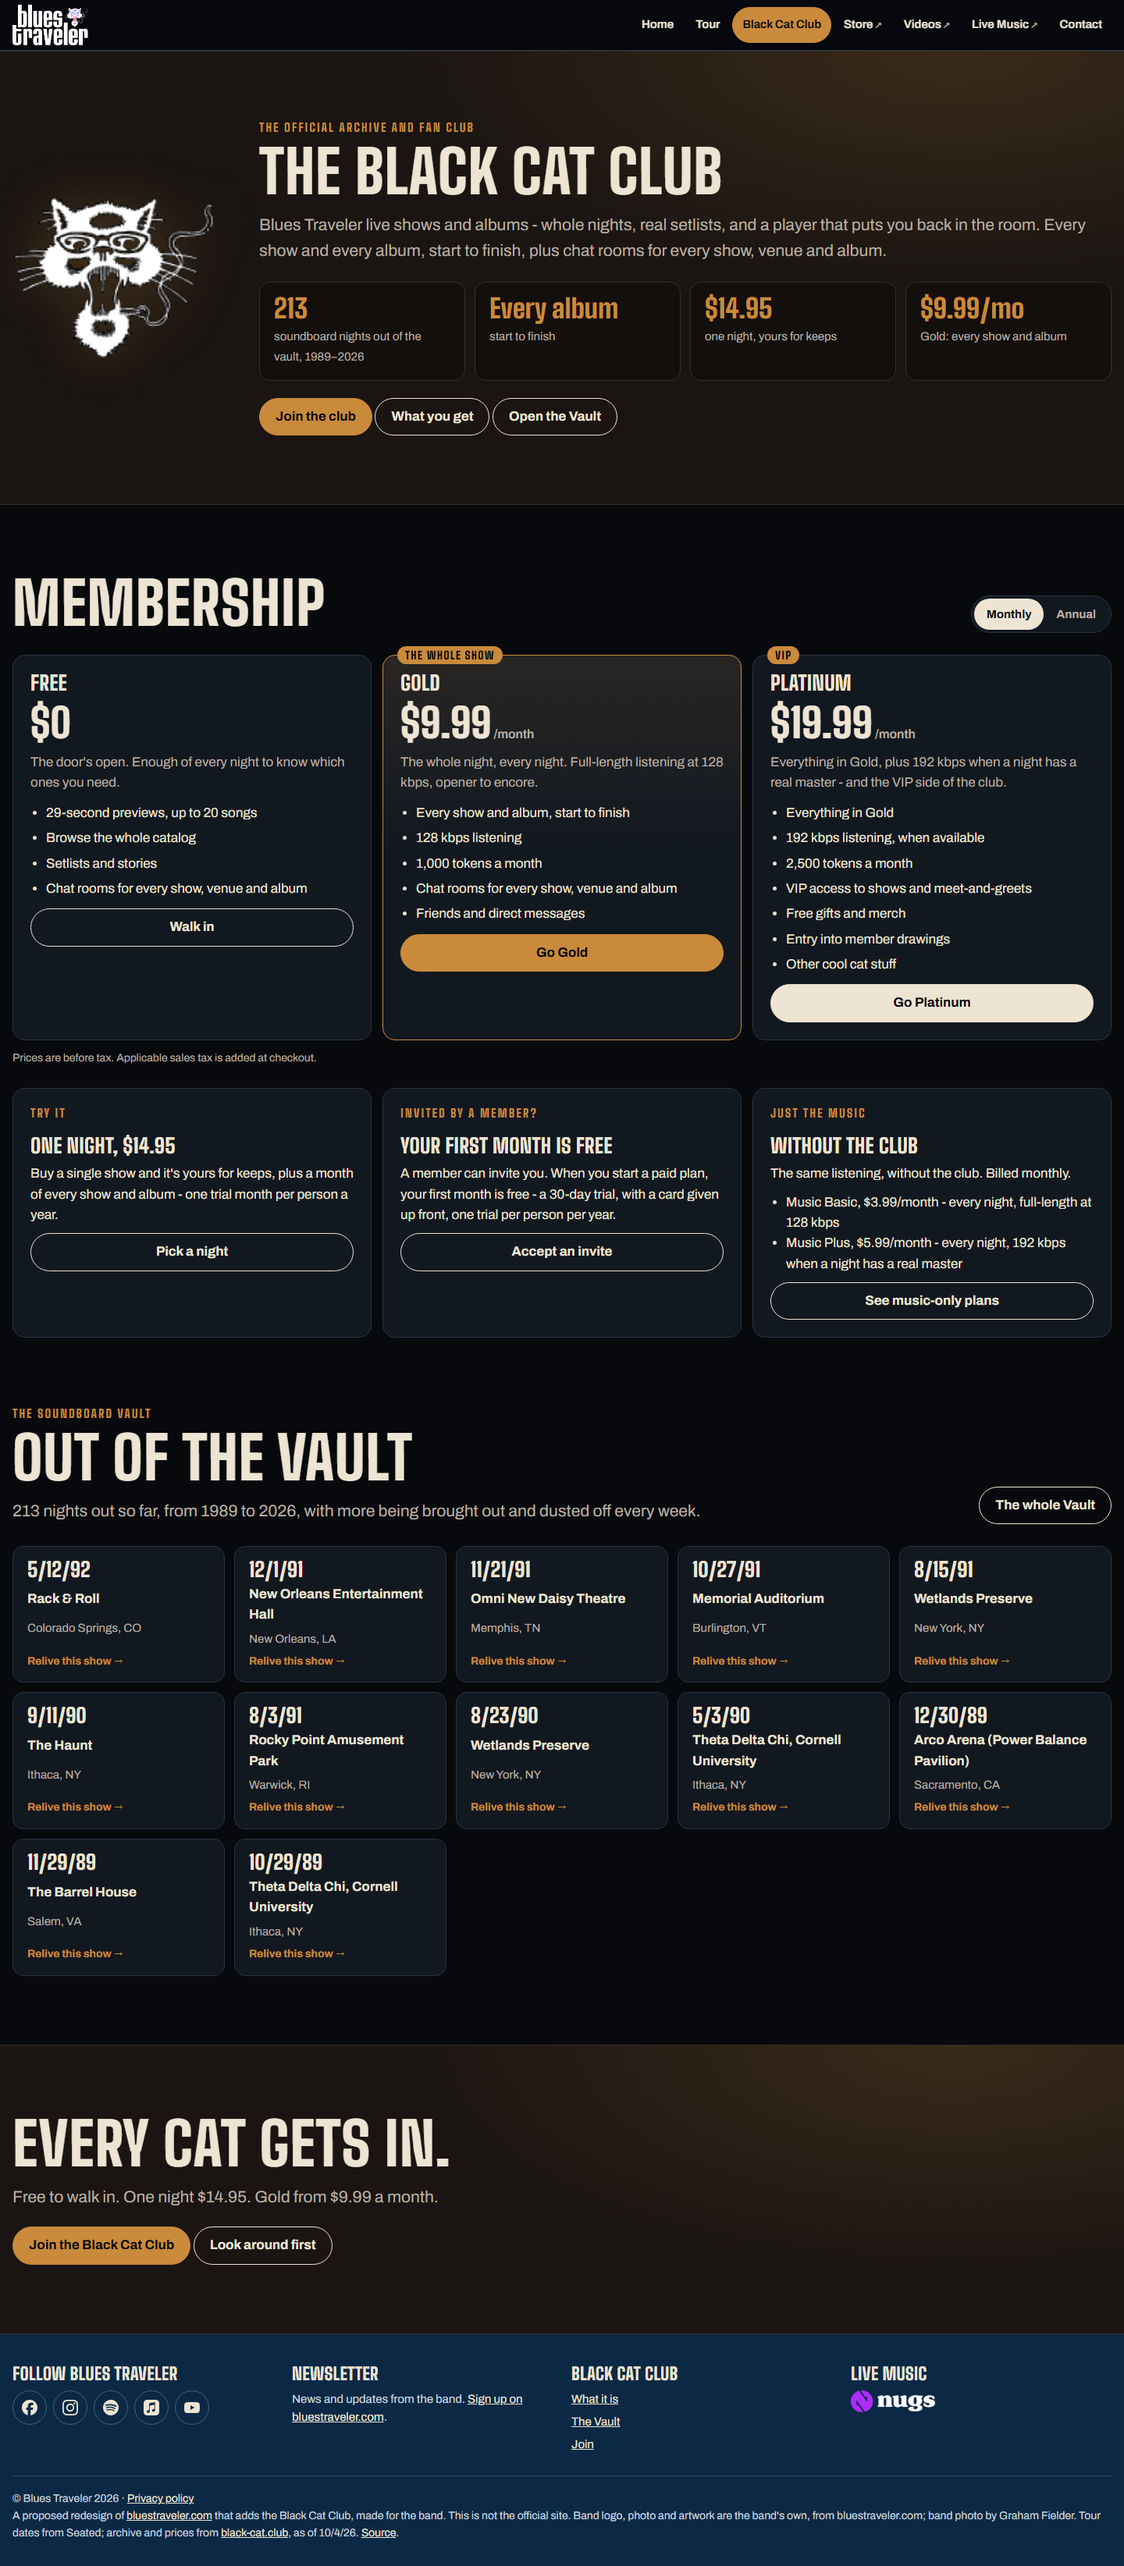
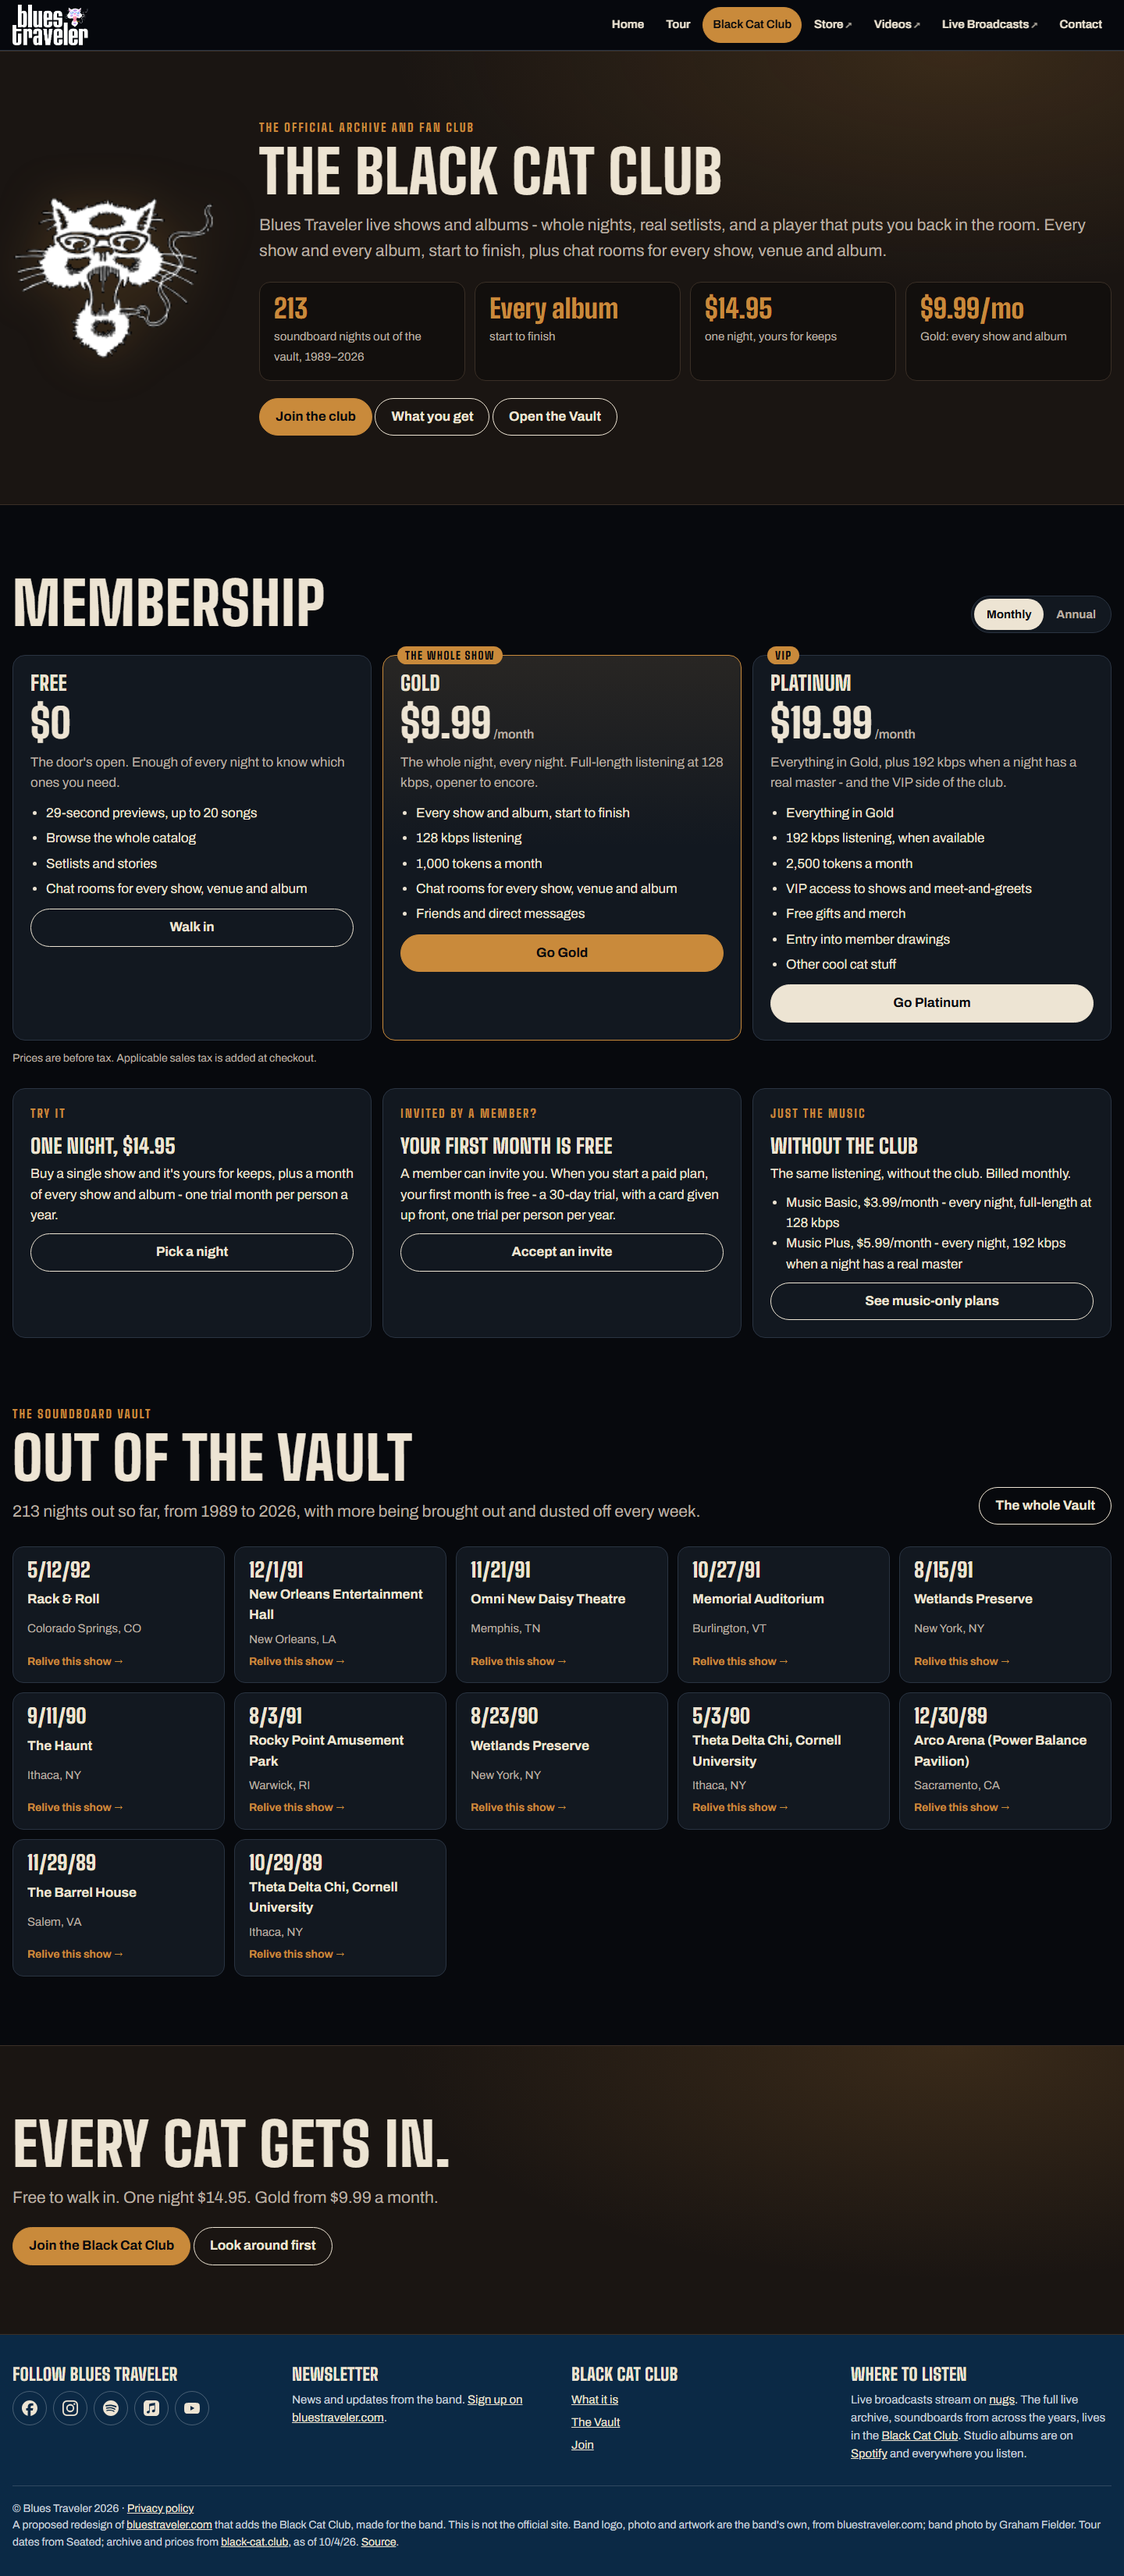
Where to listen: Jeff's complementary wording for nugs, the club and Spotify
Live broadcasts on nugs, the full live archive in the Black Cat Club, studio
albums on Spotify. No exclusivity, no nugs show counts; nav reads Live Broadcasts.

Claude-Session: https://claude.ai/code/session_01CtCHqdsyoh2k3dzfTF26WH

diff --git a/README.md b/README.md
@@ -6,7 +6,7 @@ Preview: https://jeffhughes.github.io/bluestraveler-site/
 
 ## What it keeps
 Everything bluestraveler.com does today: tour dates with ticket links (Seated) and the "follow for new dates" sign-up,
-the store, videos (YouTube), live music on nugs.net, Spotify and Apple Music, Facebook and Instagram, the newsletter
+the store, videos (YouTube), live broadcasts on nugs, studio albums on Spotify and Apple Music, Facebook and Instagram, the newsletter
 sign-up, the booking and management contacts, and the privacy policy.
 
 ## What it adds: the Black Cat Club
